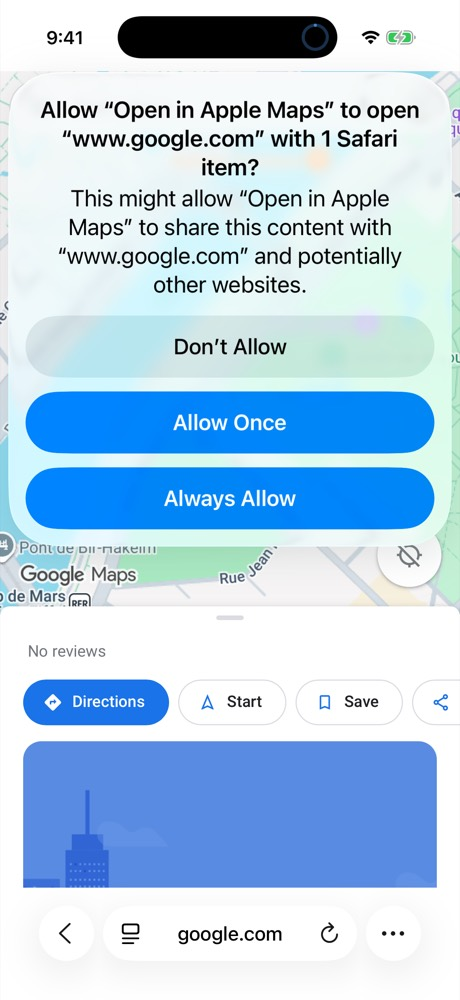
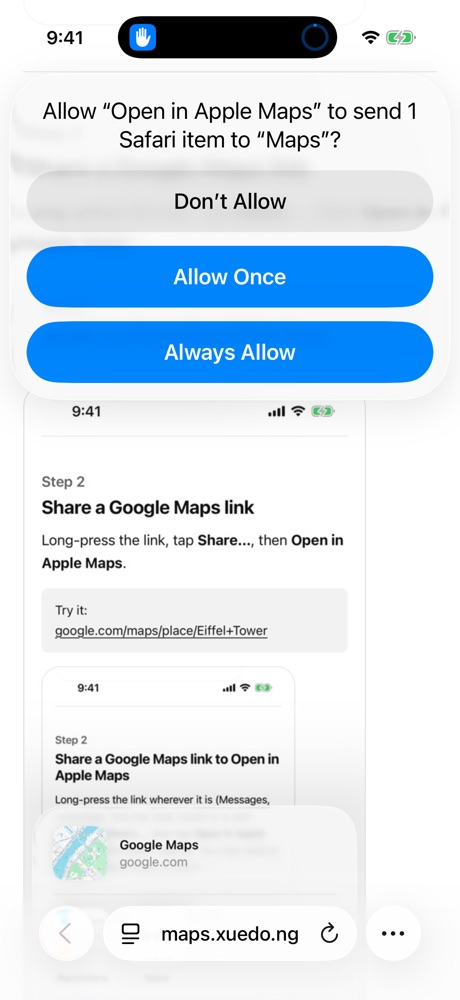
Refresh the guide screenshots and describe the new prompts

diff --git a/site/shortcut/index.html b/site/shortcut/index.html
@@ -36,7 +36,7 @@
     "step": [
       { "@type": "HowToStep", "name": "Add the shortcut", "text": "Open the shortcut link on your iPhone and tap Add Shortcut.", "url": "https://maps.xuedo.ng/shortcut/#add", "image": "https://maps.xuedo.ng/shortcut/img/01-add-shortcut.jpg" },
       { "@type": "HowToStep", "name": "Share a Google Maps link to Open in Apple Maps", "text": "Long-press a Google Maps link in Messages, WhatsApp, WeChat, Mail or Safari, tap Share, then tap Open in Apple Maps.", "url": "https://maps.xuedo.ng/shortcut/#share", "image": "https://maps.xuedo.ng/shortcut/img/02-share-sheet.jpg" },
-      { "@type": "HowToStep", "name": "Tap Always Allow the first time", "text": "The first time, iOS asks whether the shortcut may open the link. Tap Always Allow so it won't ask again.", "url": "https://maps.xuedo.ng/shortcut/#allow", "image": "https://maps.xuedo.ng/shortcut/img/03-allow.jpg" },
+      { "@type": "HowToStep", "name": "Tap Always Allow the first time", "text": "The first time, iOS asks whether the shortcut may send the link to Maps. Tap Always Allow so it won't ask again. Short links ask once more, so Google can say where they point.", "url": "https://maps.xuedo.ng/shortcut/#allow", "image": "https://maps.xuedo.ng/shortcut/img/03-allow.jpg" },
       { "@type": "HowToStep", "name": "Apple Maps opens", "text": "Apple Maps opens at the same place, pin or route.", "url": "https://maps.xuedo.ng/shortcut/#done", "image": "https://maps.xuedo.ng/shortcut/img/04-apple-maps.jpg" }
     ]
   }
@@ -71,7 +71,7 @@
   <main class="guide">
     <section class="convert" aria-labelledby="title">
       <h1 id="title">Open Google Maps links in Apple Maps on iPhone</h1>
-      <p class="lead">A free shortcut that adds <strong>Open in Apple Maps</strong> to your share sheet.</p>
+      <p class="lead">A free shortcut that adds <strong>Open in Apple Maps</strong> to your share sheet. It keeps the exact pin, the route and how you're travelling, and converts on your phone.</p>
       <a class="button" href="https://www.icloud.com/shortcuts/11f47f8368224687891f5f5f49ffa01f">Get the shortcut</a>
     </section>
 
@@ -109,9 +109,9 @@
         <div class="step-text">
           <p class="step-number">Step 3, first time only</p>
           <h2 id="allow-title">Tap Always Allow</h2>
-          <p>iOS asks once per website. It won't ask again.</p>
+          <p>iOS asks once whether the shortcut may send the link to Maps. Short links (maps.app.goo.gl) ask once more, so Google can say where they point.</p>
         </div>
-        <img src="img/03-allow.jpg" alt="An iOS prompt asking to allow Open in Apple Maps to open the link, with Don't Allow, Allow Once and Always Allow" width="460" height="1000" loading="lazy">
+        <img src="img/03-allow.jpg" alt="An iOS prompt asking to allow Open in Apple Maps to send 1 Safari item to Maps, with Don't Allow, Allow Once and Always Allow" width="460" height="1000" loading="lazy">
       </div>
     </section>
 

diff --git a/README.md b/README.md
@@ -2,7 +2,7 @@
 
 # Google Maps ↔ Apple Maps Link Converter
 
-**Open any Google Maps link in Apple Maps on iPhone, in one tap from the share sheet.** Places, dropped pins, searches and routes, short links included. Works the other way too.
+**Open any Google Maps link in Apple Maps on iPhone, in one tap from the share sheet.** Places, dropped pins, searches and routes keep their exact location and travel mode, short links included. The shortcut converts on your phone. Works the other way too.
 
 [![GitHub stars](https://img.shields.io/github/stars/steven-panxd/google-apple-maps-converter?style=social)](https://github.com/steven-panxd/google-apple-maps-converter)
 [![npm](https://img.shields.io/npm/v/google-apple-maps-converter)](https://www.npmjs.com/package/google-apple-maps-converter)
@@ -20,7 +20,7 @@
 
 1. Open **[the shortcut](https://www.icloud.com/shortcuts/11f47f8368224687891f5f5f49ffa01f)** on your iPhone and tap **Add Shortcut**.
 2. Long-press any Google Maps link (Messages, WhatsApp, WeChat, Mail, Safari), tap **Share…**, then **Open in Apple Maps**.
-3. The first time, iOS asks to let the shortcut open the link. Tap **Always Allow**.
+3. The first time, iOS asks whether the shortcut may send the link to Maps. Tap **Always Allow**. Short links ask once more, so Google can say where they point.
 
 Tested on iOS 26. Not in your share sheet? Open the Shortcuts app once, or scroll the share sheet and tap **Edit Actions** to add it to your favourites. Full guide with screenshots: **[maps.xuedo.ng/shortcut](https://maps.xuedo.ng/shortcut/)**.
 
